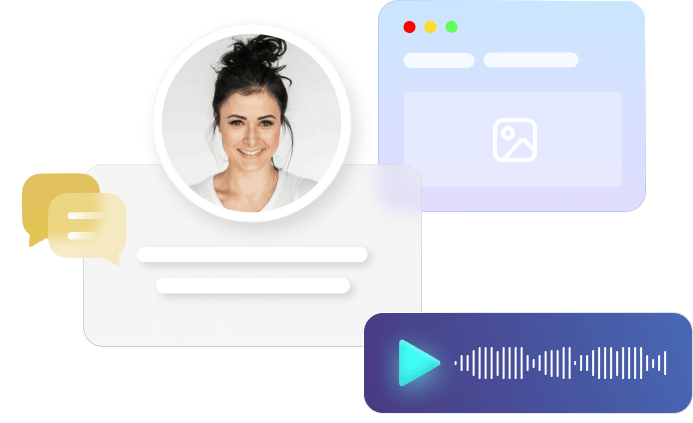
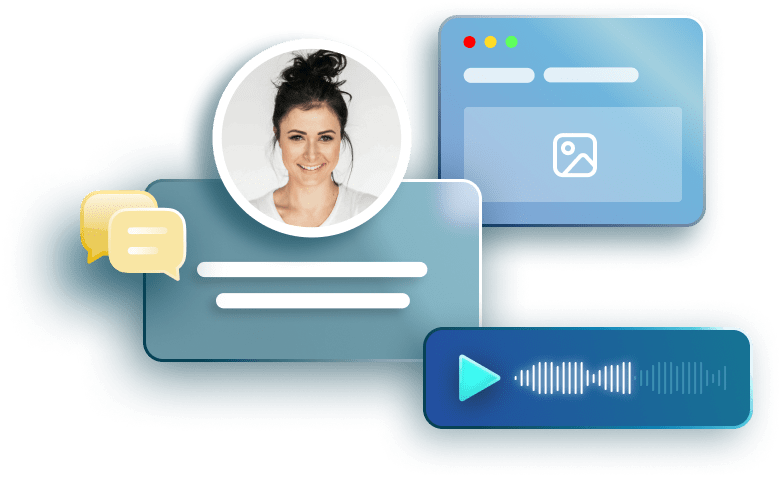
update home page part 2

diff --git a/components/SolutionSection.vue b/components/SolutionSection.vue
@@ -9,13 +9,19 @@
 				</div>
 				<div class="col-12 col-md-6">
 					<div class="solution__body">
-						<h4 class="solution__title">We provide solutions that help your business grow</h4>
-
+						<h2 class="solution__title">
+							We provide <br class="d-none d-md-block" />
+							solutions <br class="d-md-none" />
+							that help your business grow
+						</h2>
 						<p class="solution__text">Lorem ipsum dolor sit amet, consectetur adipiscing elit. Aenean egestas in est ut aliquet. Pellentesque ac blandit leo, nec porta velit. Nulla facilisi. Phasellus at placerat felis. Intege.</p>
 					</div>
 				</div>
 			</div>
 		</div>
+		<span class="ellipse ellipse-1"></span>
+		<span class="ellipse ellipse-2"></span>
+		<span class="ellipse ellipse-3"></span>
 	</div>
 </template>
 
@@ -28,20 +34,51 @@ export default {
 
 <style lang="scss" scoped>
 .solution {
-	background-color: $white;
-	padding: 3.8rem 0 8rem;
-
-	@include media-breakpoint-down(md) {
-		overflow: hidden;
-	}
+	position: relative;
+	color: $white;
+	background: $matisse;
+	padding: 6rem 0 6rem;
+	overflow: hidden;
 
 	@include media-breakpoint-up(lg) {
 		padding-top: 16.6rem;
 		padding-bottom: 17.4rem;
 	}
 
+	.ellipse {
+		position: absolute;
+		border-radius: 50%;
+
+		&.ellipse-1 {
+			top: -10%;
+			left: -50%;
+			width: 160rem;
+			height: 160rem;
+			background: radial-gradient(50% 50% at 50% 50%, #005570 0%, rgba(0, 85, 112, 0) 100%);
+		}
+
+		&.ellipse-2 {
+			top: 50%;
+			transform: translateY(-50%);
+			right: 0;
+			width: 108.9rem;
+			height: 108.9rem;
+			background: radial-gradient(50% 50% at 50% 50%, #005570 0%, rgba(0, 85, 112, 0) 100%);
+		}
+
+		&.ellipse-3 {
+			top: -50%;
+			right: -50%;
+			width: 126.2rem;
+			height: 117.6rem;
+			background: radial-gradient(50% 50% at 50% 50%, #1f98be 0%, rgba(31, 152, 190, 0) 100%);
+		}
+	}
+
 	.container {
+		position: relative;
 		max-width: 134rem;
+		z-index: 2;
 	}
 
 	&__title {
@@ -69,8 +106,7 @@ export default {
 
 	.img-holder {
 		@include media-breakpoint-down(md) {
-			margin-left: -4rem;
-			margin-right: -3rem;
+			margin-right: -9rem;
 		}
 	}
 

diff --git a/components/CustomerExperienceSection.vue b/components/CustomerExperienceSection.vue
@@ -4,20 +4,19 @@
 			<div class="customer-experience__wrap row g-0">
 				<div class="col">
 					<div class="customer-experience__visual">
-						<img src="@/assets/imgs/customer-experience-002.jpg" class="customer-experience__img img-fluid rounded-start" alt="image description" width="720" height="600" />
+						<img v-if="img" :src="require(`@/assets/imgs/${img}`)" class="customer-experience__img img-fluid rounded-start" alt="image description" width="720" height="600" />
 					</div>
 				</div>
-				<div class="customer-experience__body col">
+				<div class="customer-experience__body col" :style="{ backgroundColor: bgColor }">
 					<div class="customer-experience__inner">
 						<h2 class="customer-experience__title h2">
 							Transform your <br />
 							customer experience
 						</h2>
-						<Button title="ABOUT US" class="btn-warning" type="nuxt-link" to="/about">
+						<Button title="ABOUT US" class="btn-light shadow-sm" type="nuxt-link" to="/about">
 							<template #icon>
-								<svg width="16" height="15" viewBox="0 0 16 15" fill="none" xmlns="http://www.w3.org/2000/svg">
-									<path d="M15 0V14H0" stroke="CurrentColor" stroke-width="1.5" />
-									<path d="M15 14L1 0.93335" stroke="CurrentColor" stroke-width="1.5" />
+								<svg width="31" height="8" viewBox="0 0 31 8" fill="none" xmlns="http://www.w3.org/2000/svg">
+									<path d="M30.3536 4.35355C30.5488 4.15829 30.5488 3.84171 30.3536 3.64645L27.1716 0.464466C26.9763 0.269204 26.6597 0.269204 26.4645 0.464466C26.2692 0.659728 26.2692 0.976311 26.4645 1.17157L29.2929 4L26.4645 6.82843C26.2692 7.02369 26.2692 7.34027 26.4645 7.53553C26.6597 7.7308 26.9763 7.7308 27.1716 7.53553L30.3536 4.35355ZM0 4.5H30V3.5H0V4.5Z" fill="currentColor" />
 								</svg>
 							</template>
 						</Button>
@@ -35,6 +34,16 @@ export default {
 	name: "CustomerExperience",
 	components: {
 		Button
+	},
+	props: {
+		img: {
+			type: String,
+			default: ""
+		},
+		bgColor: {
+			type: String,
+			default: "black"
+		}
 	}
 };
 </script>

diff --git a/pages/index.vue b/pages/index.vue
@@ -8,7 +8,6 @@
 							Intelligent client engagement — <br />
 							at scale
 						</h1>
-
 						<Button title="About us" class="btn-dark" type="nuxt-link" to="/contact">
 							<template #icon>
 								<svg width="31" height="8" viewBox="0 0 31 8" fill="none" xmlns="http://www.w3.org/2000/svg">
@@ -22,7 +21,7 @@
 		</Intro-section>
 		<Solutions :title="info.title" :text="info.text" :img="info.img" :img-mob="info.imgMob" :button="true" class="style-3" />
 		<InformersSection />
-		<CustomerExperienceSection />
+		<CustomerExperienceSection img="img-021.jpg" bg-color="#09291A" />
 		<OurPartners />
 		<SolutionSection />
 		<ContactSection />

diff --git a/components/OurPartners.vue b/components/OurPartners.vue
@@ -78,13 +78,12 @@ export default {
 
 <style lang="scss" scoped>
 .our-partners {
-	padding: 10rem 0;
+	padding: 10rem 0 0 0;
 	background: $white;
 	.our-partners__items {
 		max-width: 116.3rem;
-		border-bottom: 0.1rem solid rgb($black, 0.2);
 		padding-bottom: 7rem;
-		padding-top: 6rem; ///12
+		padding-top: 6rem;
 		@include media-breakpoint-down(md) {
 			padding-top: 3rem;
 			padding-bottom: 1rem;
@@ -119,7 +118,7 @@ export default {
 			margin-top: 3rem;
 			line-height: 1.27;
 			font-size: 22px;
-			font-weight: 400;
+			font-weight: 500;
 		}
 		.our-partners__job {
 			opacity: 0.5;

diff --git a/components/ContactSection.vue b/components/ContactSection.vue
@@ -4,7 +4,8 @@
 			<div class="row align-items-md-end">
 				<div class="col-lg-5">
 					<h2 class="h2">
-						Ready to start <br />
+						Ready to <br class="d-none d-md-block" />
+						start <br class="d-md-none" />
 						right now?
 					</h2>
 					<div class="text-holder d-none d-md-block">
@@ -50,6 +51,7 @@ export default {
 
 	.h2 {
 		margin-bottom: 3.2rem;
+		line-height: 1.1;
 
 		@include media-breakpoint-down(md) {
 			margin-bottom: 3rem;

diff --git a/components/ContactForm.vue b/components/ContactForm.vue
@@ -30,7 +30,7 @@
 				</div>
 			</div>
 			<Input v-model="form.message" placeholder="Type your message" label="Your message" input-type="textarea" :error-showing="$v.form.message.$error" />
-			<Button type="button" title="Send" class="btn-primary" @click="submitForm" />
+			<Button type="button" title="Send" class="btn-dark" @click="submitForm" />
 		</form>
 		<modal ref="modal" class="contact-from">
 			<template #modal-body>

diff --git a/components/Button.vue b/components/Button.vue
@@ -189,5 +189,17 @@ export default {
 			border-color: $black;
 		}
 	}
+
+	&.btn-light {
+		color: $black;
+		background: $white;
+		border-color: $white;
+
+		&:hover {
+			color: $black;
+			background: darken($white, 10);
+			border-color: darken($white, 10);
+		}
+	}
 }
 </style>

diff --git a/components/Footer.vue b/components/Footer.vue
@@ -154,7 +154,7 @@ export default {
 	padding-top: 10.6rem;
 	padding-bottom: 10rem;
 	color: $white;
-	background: $cloud-burst;
+	background: $tiber;
 
 	@include media-breakpoint-down(md) {
 		padding-top: 5rem;

diff --git a/assets/scss/_vars.scss b/assets/scss/_vars.scss
@@ -37,6 +37,8 @@ $cloud-burst2: #1c354d;
 $mauve: #bb93ff;
 $violent-violet: #200b5f;
 $aqua-deep: #015236;
+$matisse: #177694;
+$tiber: #06303e;
 
 // // base vars
 $text-color-base: $black;

diff --git a/assets/scss/_reset.scss b/assets/scss/_reset.scss
@@ -114,3 +114,7 @@ h3 {
 		line-height: 1.2;
 	}
 }
+
+.shadow-sm {
+	box-shadow: 0 1rem 4rem rgba($black, 0.3) !important;
+}
